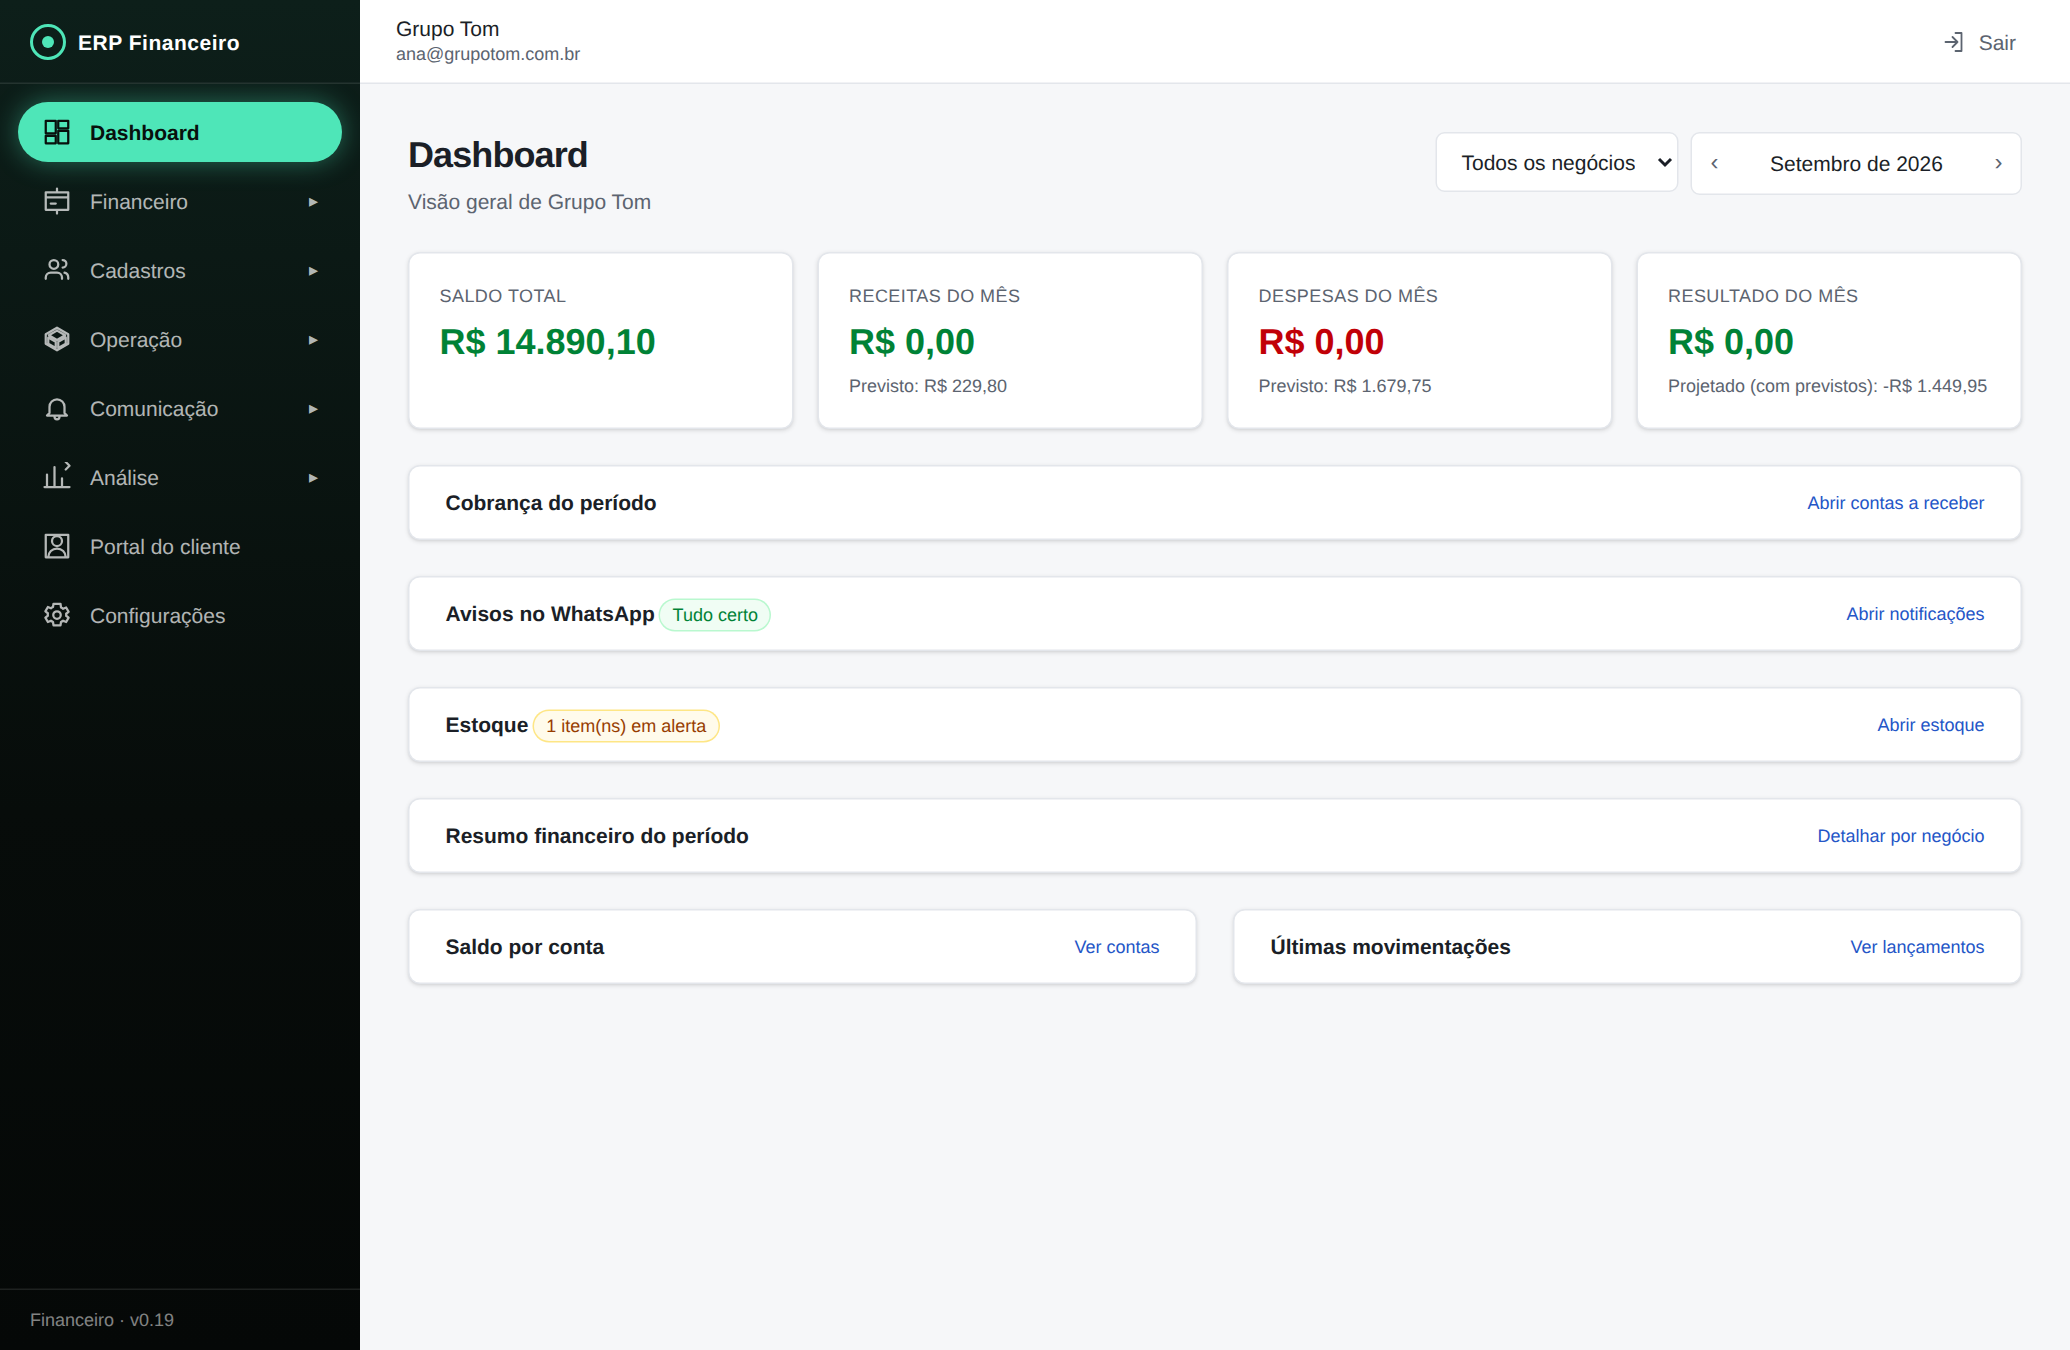
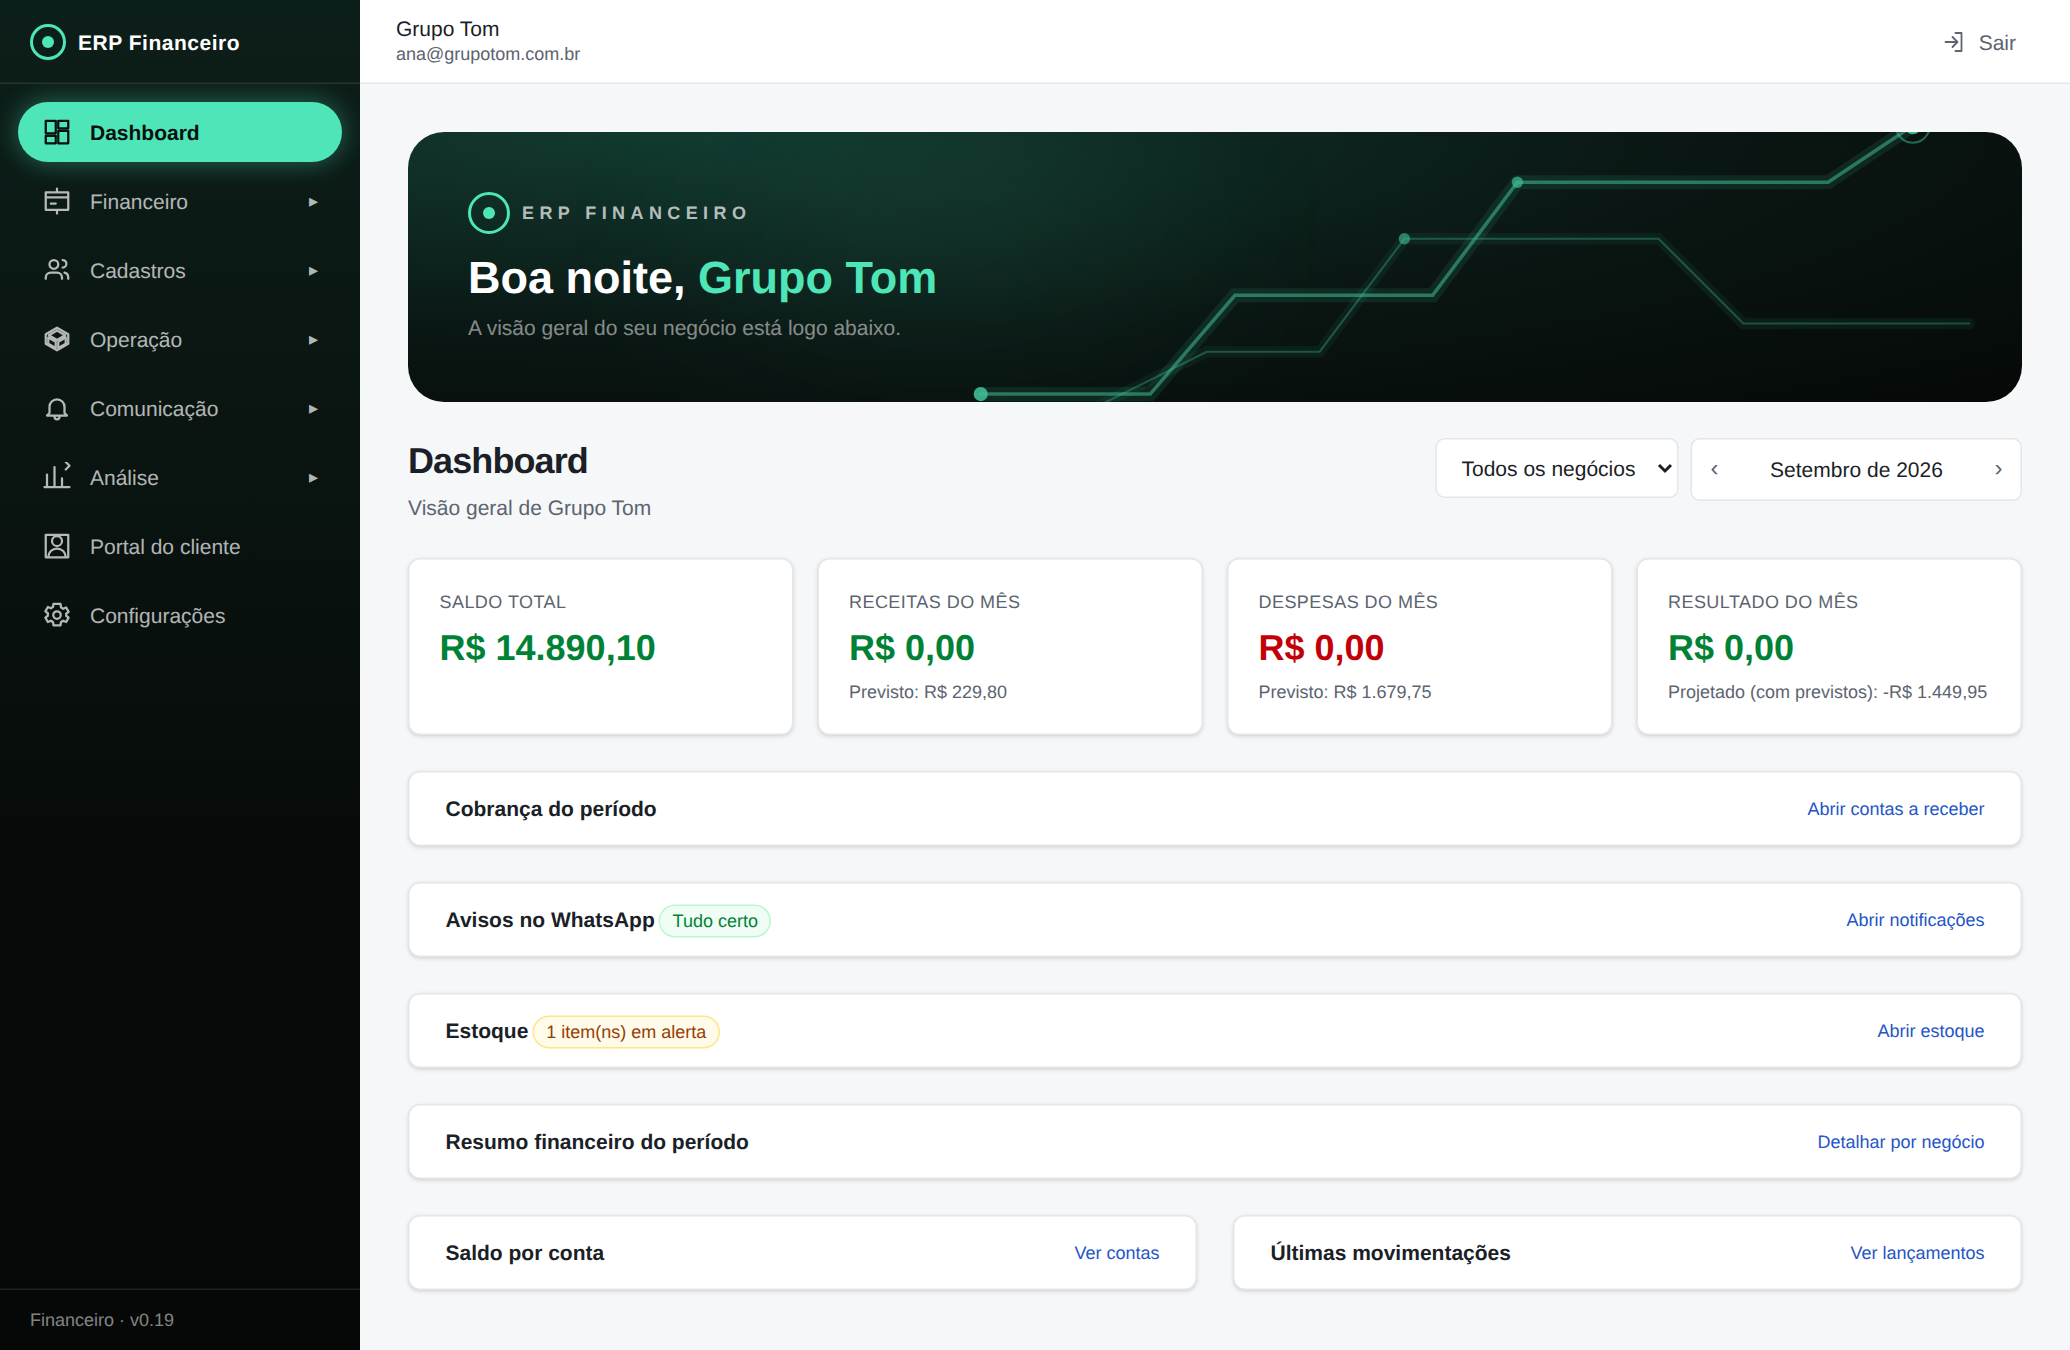
dashboard: capa de boas-vindas no estilo dark/neon do login
Faixa no topo do Dashboard com o visual do login (fundo escuro, faixas
de luz) e um motivo de rede — nós ligados por linhas, no lugar do mapa
de trânsito — com a marca "ERP Financeiro" e saudação pelo nome da
organização. Puramente decorativo, sem dado nenhum; os cartões e
listas do Dashboard continuam exatamente como estavam, logo abaixo.

Claude-Session: https://claude.ai/code/session_01LvKVVJXHUTGGnyzXpwt5fU

diff --git a/app/src/modules/dashboard/components/HeroBoasVindas.tsx b/app/src/modules/dashboard/components/HeroBoasVindas.tsx
@@ -1,0 +1,49 @@
+const MENTA = '#4ee6b8'
+
+/**
+ * Capa do Dashboard: mesma linguagem visual do login (fundo escuro, faixas de
+ * luz) com um motivo de "rede" — nós ligados por linhas — no lugar do mapa,
+ * porque aqui a rede é a do provedor, não uma rota de trânsito. Decorativo:
+ * não lê dado nenhum, só recebe o nome da organização para a saudação.
+ */
+export function HeroBoasVindas({ nomeOrganizacao }: { nomeOrganizacao: string }) {
+  const hora = new Date().getHours()
+  const saudacao = hora < 12 ? 'Bom dia' : hora < 18 ? 'Boa tarde' : 'Boa noite'
+
+  return (
+    <div className="relative mb-6 overflow-hidden rounded-3xl px-6 py-8 sm:px-10 sm:py-10"
+      style={{ background: 'radial-gradient(120% 140% at 15% 0%, #123a30 0%, #0a1613 55%, #050907 100%)' }}>
+      <div aria-hidden className="pointer-events-none absolute inset-0 overflow-hidden opacity-80">
+        <svg viewBox="0 0 800 260" className="absolute -right-10 top-0 h-full w-[70%] min-w-[420px]" preserveAspectRatio="xMidYMid slice">
+          <g fill="none" stroke={MENTA} strokeLinecap="round">
+            <path d="M20 220 L140 220 L200 150 L340 150 L400 70 L620 70 L680 30" strokeOpacity="0.12" strokeWidth="10" />
+            <path d="M20 220 L140 220 L200 150 L340 150 L400 70 L620 70 L680 30" strokeOpacity="0.55" strokeWidth="2.5" />
+            <path d="M60 250 L180 190 L260 190 L320 110 L500 110 L560 170 L720 170" strokeOpacity="0.08" strokeWidth="8" />
+            <path d="M60 250 L180 190 L260 190 L320 110 L500 110 L560 170 L720 170" strokeOpacity="0.35" strokeWidth="1.5" />
+          </g>
+          <g fill={MENTA}>
+            <circle cx="20" cy="220" r="5" opacity="0.9" />
+            <circle cx="400" cy="70" r="4" opacity="0.7" />
+            <circle cx="680" cy="30" r="6" opacity="0.95" />
+            <circle cx="320" cy="110" r="4" opacity="0.6" />
+          </g>
+          <circle cx="680" cy="30" r="12" fill="none" stroke={MENTA} strokeOpacity="0.5" strokeWidth="1.5" />
+        </svg>
+        <span className="absolute left-1/3 top-0 h-32 w-[60%] -translate-x-1/2 rounded-full blur-3xl" style={{ background: `radial-gradient(circle, ${MENTA}22, transparent 70%)` }} />
+      </div>
+
+      <div className="relative">
+        <div className="mb-3 flex items-center gap-2">
+          <span className="flex size-7 items-center justify-center rounded-full border-2" style={{ borderColor: MENTA }}>
+            <span className="size-2 rounded-full" style={{ backgroundColor: MENTA }} />
+          </span>
+          <span className="text-xs font-semibold tracking-[0.3em] text-white/70">ERP FINANCEIRO</span>
+        </div>
+        <h1 className="text-2xl font-bold text-white sm:text-3xl">
+          {saudacao}, <span style={{ color: MENTA }}>{nomeOrganizacao}</span>
+        </h1>
+        <p className="mt-1 max-w-md text-sm text-white/50">A visão geral do seu negócio está logo abaixo.</p>
+      </div>
+    </div>
+  )
+}

diff --git a/app/src/modules/dashboard/pages/DashboardPage.tsx b/app/src/modules/dashboard/pages/DashboardPage.tsx
@@ -21,6 +21,7 @@ import { ResumoFinanceiro } from '../components/ResumoFinanceiro'
 import { AlertasEstoque } from '../components/AlertasEstoque'
 import { SaudeAvisos } from '../components/SaudeAvisos'
 import { RelatorioCobranca } from '../components/RelatorioCobranca'
+import { HeroBoasVindas } from '../components/HeroBoasVindas'
 
 function Indicador({ rotulo, valor, tom = 'neutro', detalhe }: { rotulo: string; valor: number; tom?: 'neutro' | 'positivo' | 'negativo' | 'auto'; detalhe?: string }) {
   const cor = tom === 'positivo' ? 'text-green-700' : tom === 'negativo' ? 'text-red-700' : tom === 'auto' ? (valor < 0 ? 'text-red-700' : 'text-green-700') : ''
@@ -77,6 +78,8 @@ export function DashboardPage() {
 
   return (
     <>
+      <HeroBoasVindas nomeOrganizacao={organizacao.nome} />
+
       <CabecalhoPagina
         titulo="Dashboard"
         descricao={`Visão geral de ${organizacao.nome}`}

diff --git a/docs/manual/README.md b/docs/manual/README.md
@@ -44,7 +44,7 @@ Cada grupo expande/recolhe com um clique; o estado é lembrado no navegador. O g
 
 ![Dashboard](img/02-dashboard.png)
 
-É a primeira tela. Mostra, para o mês escolhido no canto superior direito:
+É a primeira tela (abre sozinha ao entrar). A faixa escura no topo é só a marca (saudação + "ERP Financeiro"); os dados começam logo abaixo, para o mês escolhido no canto superior direito:
 
 - **Cartões do topo**: saldo total das contas, receitas/despesas do mês (realizado e previsto) e resultado. O "previsto" inclui a **projeção dos contratos** do mês exibido (mensalidades ainda não faturadas) — por isso um mês futuro já mostra a receita esperada.
 - **Cobrança do período**: três anéis — Confirmadas (recebidas), A receber (no prazo) e Inadimplentes (vencidas, acumulado) — com filtro Dia · Semana · Mês e atalho para Contas a receber.
